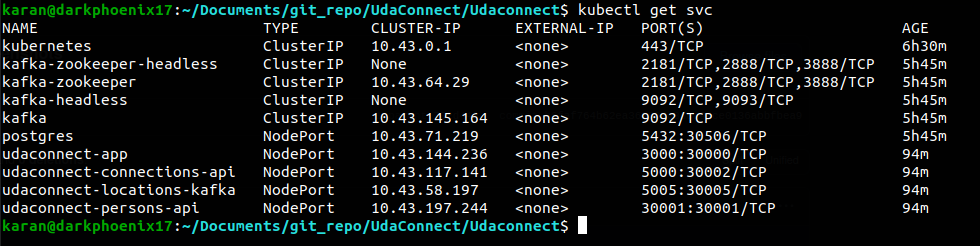
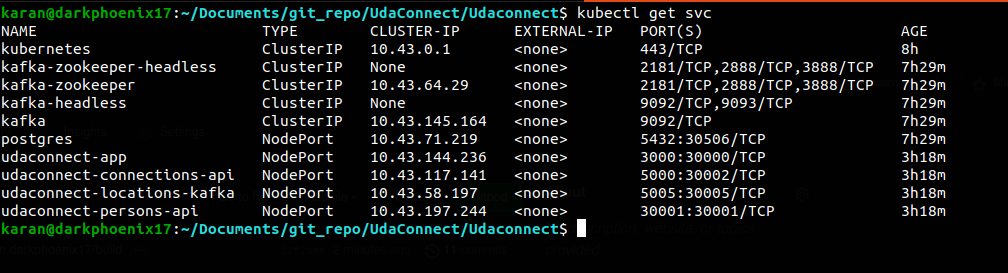
Final Build after changes (#5)
* Updated Screenshot after pods recreation

* Submission Ready

* Updated README.md

* Changes after Review

Changed region(s): [[0.0, 0.0, 1.0, 0.9675], [0.6429, 0.8252, 0.7959, 0.8821], [0.9184, 0.8252, 0.949, 0.8821]]

diff --git a/modules/locations-kafka2db/main.py b/modules/locations-kafka2db/main.py
@@ -10,17 +10,17 @@ TOPIC_NAME = 'locations'
 
 
 def main():
-    consumer = KafkaConsumer(bootstrap_servers=KAFKA_SERVER,
-                             value_deserializer=lambda m: json.loads(m.decode('utf-8')))
-    consumer.subscribe([TOPIC_NAME])
-    try:
-        for message in consumer:
-            location=message.value
-            LocationService.create(location)
-            logger.info("Location data:" + str(location) + "saved to database.")
-    except KeyboardInterrupt:
-        consumer.unsubscribe()
-        consumer.close()
+    while True:
+        consumer = KafkaConsumer(bootstrap_servers=KAFKA_SERVER, value_deserializer=lambda m: json.loads(m.decode('utf-8')))
+        consumer.subscribe([TOPIC_NAME])
+        try:
+            for message in consumer:
+                location=message.value
+                LocationService.create(location)
+                logger.info("Location data:" + str(location) + "saved to database.")
+        except KeyboardInterrupt:
+            consumer.unsubscribe()
+            consumer.close()
 
 # Some logging stuff
 logger = logging.getLogger(__name__)

diff --git a/README.md b/README.md
@@ -138,29 +138,31 @@ id  | person_id |                 coordinate                 |    creation_time
 
 ### Verifying it Works
 Once the project is up and running, you should be able to see 7 deployments and 9 services in Kubernetes:
-`kubectl get deployment` and `kubectl get services` - should return:
+`kubectl get po` and `kubectl get svc` - should return:
 ```
-NAME                             READY   UP-TO-DATE   AVAILABLE   AGE
-postgres                         1/1     1            1           21h
-udaconnect-app                   1/1     1            1           14h
-udaconnect-locations2kafka       1/1     1            1           14h
-udaconnect-locations-kafka2db    1/1     1            1           14h
-udaconnect-locations-generator   1/1     1            1           13h
-udaconnect-connections-api       1/1     1            1           13h
-udaconnect-persons-api           1/1     1            1           12h
+NAME                                              READY   STATUS    RESTARTS   AGE
+postgres-5f676c995d-kkzx9                         1/1     Running   0          16h
+kafka-zookeeper-0                                 1/1     Running   0          16h
+kafka-0                                           1/1     Running   1          16h
+udaconnect-app-5cbbcc6784-4dfpf                   1/1     Running   0          12h
+udaconnect-locations-kafka-545d9b86cb-s975z       1/1     Running   0          12h
+udaconnect-persons-api-b49568684-ttvdb            1/1     Running   0          12h
+udaconnect-connections-api-7595bb78c9-h6fq8       1/1     Running   0          12h
+udaconnect-locations-generator-76f6bd5cc7-z9kjz   1/1     Running   0          9h
+udaconnect-locations-kafka2db-684d5d9c9b-mlbwt    1/1     Running   3          12h
 ```
 ```
 NAME                         TYPE        CLUSTER-IP      EXTERNAL-IP   PORT(S)                      AGE
-kubernetes                   ClusterIP   10.43.0.1       <none>        443/TCP                      13d
-kafka-zookeeper-headless     ClusterIP   None            <none>        2181/TCP,2888/TCP,3888/TCP   21h
-kafka-zookeeper              ClusterIP   10.43.156.139   <none>        2181/TCP,2888/TCP,3888/TCP   21h
-kafka-headless               ClusterIP   None            <none>        9092/TCP,9093/TCP            21h
-kafka                        ClusterIP   10.43.234.173   <none>        9092/TCP                     21h
-udaconnect-app               NodePort    10.43.56.185    <none>        3000:30000/TCP               21h
-postgres                     NodePort    10.43.10.179    <none>        5432:32078/TCP               15h
-udaconnect-connections-api   NodePort    10.43.43.82     <none>        5000:30002/TCP               14h
-udaconnect-locations2kafka   NodePort    10.43.51.141    <none>        5005:30005/TCP               14h
-udaconnect-persons-api       NodePort    10.43.251.107   <none>        30001:30001/TCP              13h
+kubernetes                   ClusterIP   10.43.0.1       <none>        443/TCP                      17h
+kafka-zookeeper-headless     ClusterIP   None            <none>        2181/TCP,2888/TCP,3888/TCP   16h
+kafka-zookeeper              ClusterIP   10.43.64.29     <none>        2181/TCP,2888/TCP,3888/TCP   16h
+kafka-headless               ClusterIP   None            <none>        9092/TCP,9093/TCP            16h
+kafka                        ClusterIP   10.43.145.164   <none>        9092/TCP                     16h
+postgres                     NodePort    10.43.71.219    <none>        5432:30506/TCP               16h
+udaconnect-app               NodePort    10.43.144.236   <none>        3000:30000/TCP               12h
+udaconnect-connections-api   NodePort    10.43.117.141   <none>        5000:30002/TCP               12h
+udaconnect-locations-kafka   NodePort    10.43.58.197    <none>        5005:30005/TCP               12h
+udaconnect-persons-api       NodePort    10.43.197.244   <none>        30001:30001/TCP              12h
 ```
 
 
